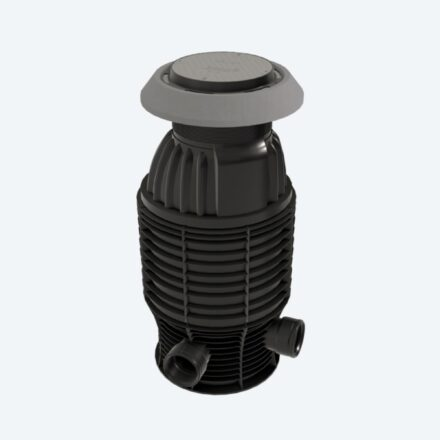
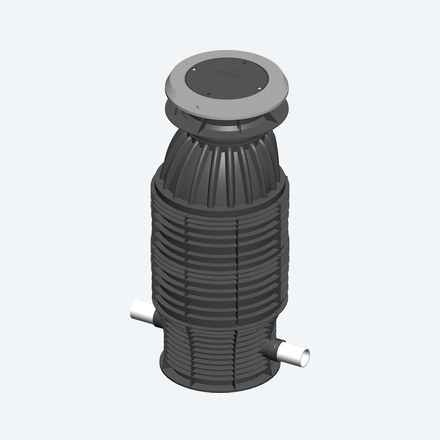
Replace the three product cards with the matched Top Hat render set
Processed from the CAD renders in reference-materials, one camera and one
lighting rig across all three, every one on the Top Hat cover. That resolves
what the old set had wrong: the DN375 card showed a black riser where the
product is PVC, and the DN1000 access cover rendered light grey while the other
two rendered near black, though it is the same component.

Same treatment as the images they replace, measured off those images rather
than guessed: 440x440, backdrop exactly #f1f5f8, subject centred and 78% of the
canvas height with 50px of clear space above it. That colour is the
--color-render-bg token the card container is painted with, verified here as
rgb(241, 245, 248) on both the tile and the render, so there is no seam at the
image edge.

The sources carry alpha, so the trim runs off that rather than off colour. It
matters on this set: the DN375 riser is white PVC and the covers are light
grey, and trimming those against a white background by colour cuts into the
product. The subject is also composited onto the backdrop before it is
resampled, since scaling an RGBA image drags the transparent pixels' colour
into the edge and leaves a halo.

Alt text rewritten on all three to describe what is actually shown, including
the PVC riser on the DN375 and the polyethylene riser on the DN600.

Output: all three at 440x440, content y[50,392], centred within half a pixel.
No broken images, no missing alt, no horizontal overflow and no page errors
[…]

Changed region(s): [[0.2955, 0.0886, 0.7091, 0.9159]]

diff --git a/site/src/content/products/dn600-maintenance-chamber.md b/site/src/content/products/dn600-maintenance-chamber.md
@@ -13,7 +13,7 @@ overview: >-
   and features a ductile iron access cover. The chamber provides effective surface
   access for cleaning and inspection equipment while preventing entry by persons.
 productImage: "../../assets/images/product-dn600-chamber-clover.jpg"
-productImageAlt: "SMS AXEDO DN600 polypropylene maintenance chamber with corrugated riser and access cover"
+productImageAlt: "SMS AXEDO DN600 maintenance chamber assembly: polypropylene base, corrugated polyethylene riser, Top Hat access cover and connected inlet and outlet pipes"
 productImageBackground: "light"
 heroImage: "../../assets/images/install-trench-row.jpg"
 heroImageAlt: "Row of polypropylene maintenance structures installed along a sewer trench"

diff --git a/site/src/content/products/dn375-maintenance-shaft.md b/site/src/content/products/dn375-maintenance-shaft.md
@@ -13,7 +13,7 @@ overview: >-
   and/or ductile iron access cover. The maintenance shaft provides effective surface
   access for cleaning and inspection equipment while preventing entry by persons.
 productImage: "../../assets/images/product-dn375-shaft-clover.jpg"
-productImageAlt: "SMS AXEDO DN375 polypropylene maintenance shaft assembly showing base, riser and access cap"
+productImageAlt: "SMS AXEDO DN375 maintenance shaft assembly: polypropylene base, PVC riser, Top Hat access cover and connected inlet and outlet pipes"
 productImageBackground: "light"
 heroImage: "../../assets/images/hero-install-chamber.jpg"
 heroImageAlt: "SMS technician hand-installing a polypropylene maintenance structure base into a trench"

diff --git a/site/src/content/products/dn1000-maintenance-hole.md b/site/src/content/products/dn1000-maintenance-hole.md
@@ -15,7 +15,7 @@ overview: >-
   by persons.
 productImage: "../../assets/images/product-dn1000-hole-clover.jpg"
 productImageBackground: "light"
-productImageAlt: "SMS ROMOLD DN1000 polypropylene maintenance hole assembly with base, riser, cone and side inlets"
+productImageAlt: "SMS ROMOLD DN1000 maintenance hole assembly: polypropylene base, corrugated riser, cone reducer, Top Hat access cover and connected inlet and outlet pipes"
 productImageDetail: "../../assets/images/dn1000-assembly-ladder-cutaway.jpg"
 productImageDetailAlt: "SMS ROMOLD DN1000 maintenance hole assembly with a cutaway section revealing the fixed ladder inside"
 productImageDetailBackground: "white"
